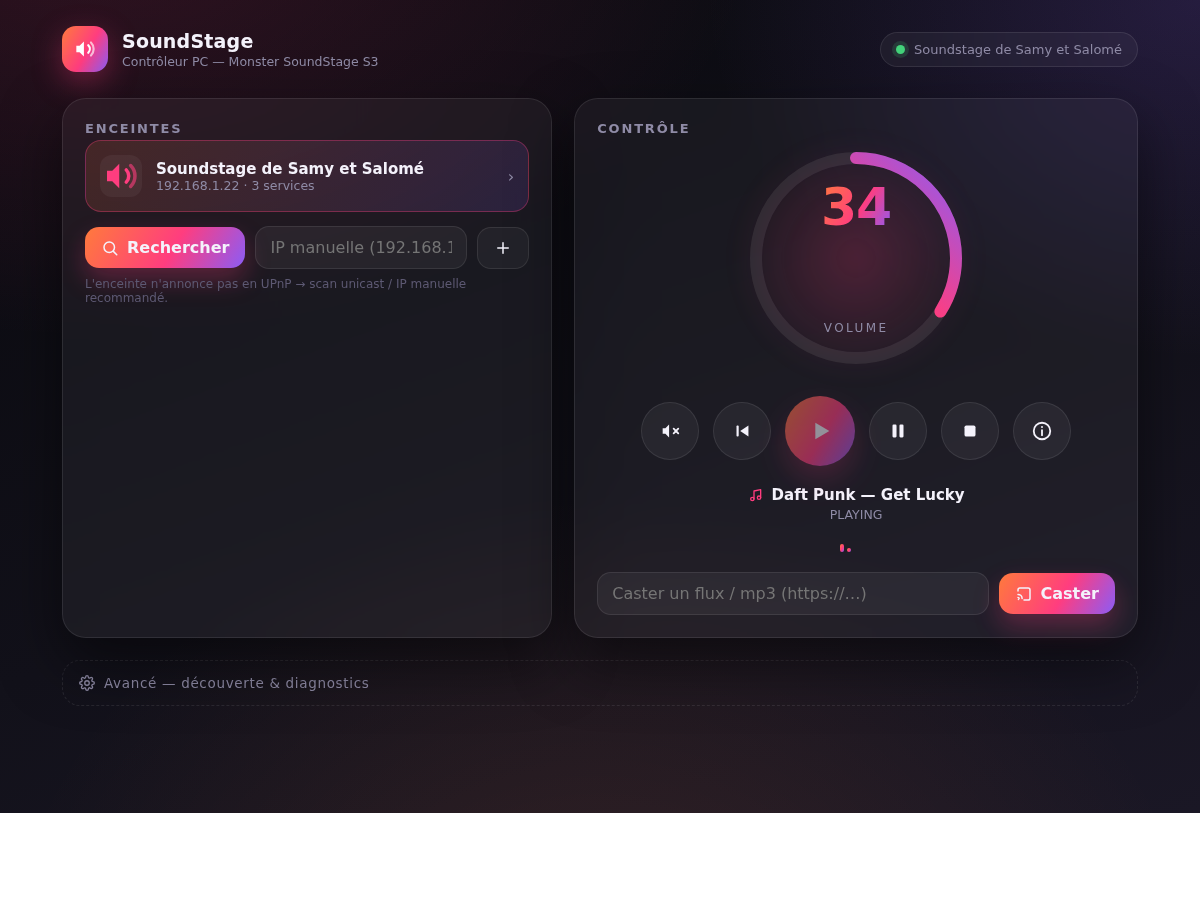
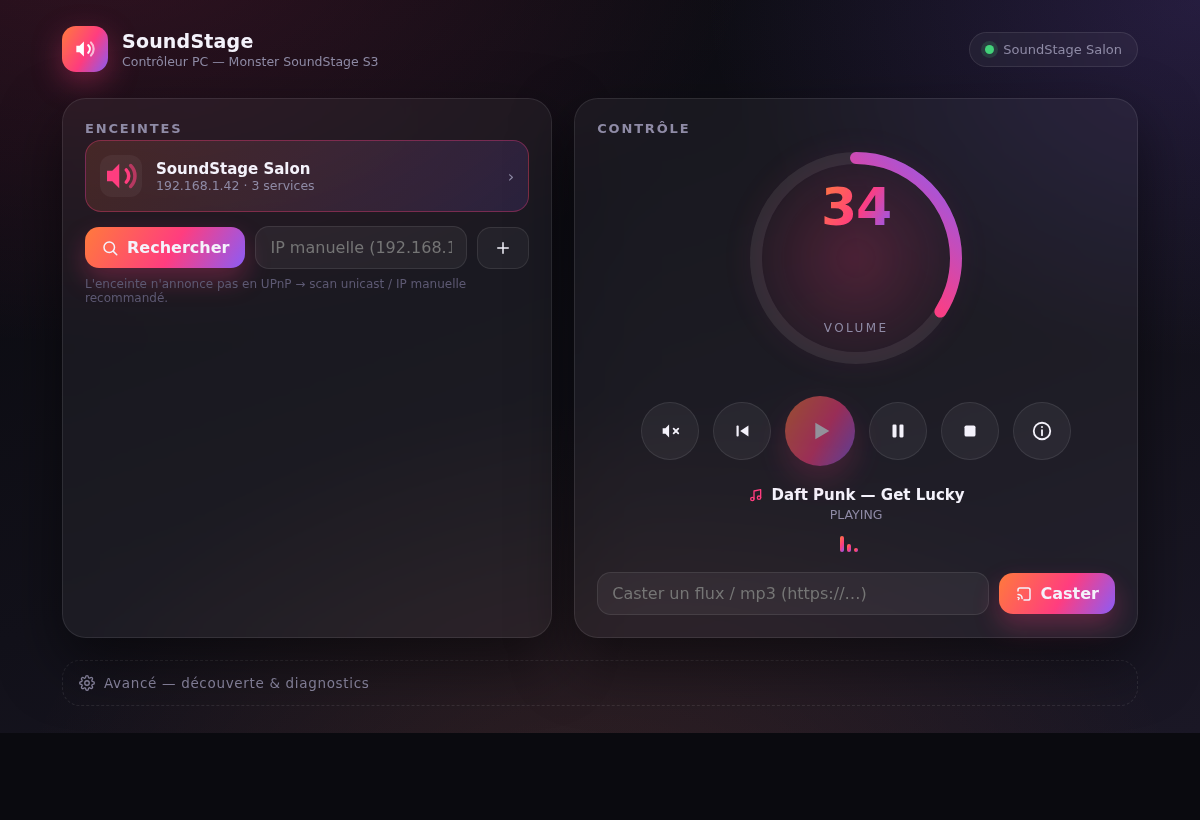
docs: replace screenshot with generic demo device (no personal name) + dark background fix

diff --git a/public/index.html b/public/index.html
@@ -14,8 +14,8 @@
     --ok:#43d17a; --sh:0 24px 60px rgba(0,0,0,.5);
   }
   *{box-sizing:border-box}
-  html,body{height:100%}
-  body{margin:0;color:var(--txt);font-family:ui-sans-serif,system-ui,"Segoe UI",Roboto,Inter,sans-serif;
+  html,body{height:100%;background:#0a0a0f}
+  body{margin:0;color:var(--txt);font-family:ui-sans-serif,system-ui,"Segoe UI",Roboto,Inter,sans-serif;background-color:#0a0a0f;
     background:
       radial-gradient(1100px 700px at 8% -10%, rgba(255,61,127,.16), transparent 60%),
       radial-gradient(900px 650px at 100% 0%, rgba(139,92,246,.18), transparent 55%),
@@ -109,7 +109,7 @@
       <div id="list"><div class="empty">Aucune enceinte. Lance une recherche ci-dessous.</div></div>
       <div class="row" style="margin-top:14px">
         <button class="btn primary" id="btnScan" data-i="search">Rechercher</button>
-        <input id="manualIp" placeholder="IP manuelle (192.168.1.22)" style="flex:1;min-width:150px" />
+        <input id="manualIp" placeholder="IP manuelle (192.168.1.42)" style="flex:1;min-width:150px" />
         <button class="btn" id="btnAdd" data-i="plus" title="Ajouter"></button>
       </div>
       <div class="hint">L'enceinte n'annonce pas en UPnP → scan unicast / IP manuelle recommandé.</div>
@@ -323,7 +323,7 @@ $('#bAllplay').onclick=()=>{const ip=ipOrToast();if(ip)run('/api/allplay?ip='+en
 (function boot(){
   setRing(0); paintPlay();
   if(location.hash.includes('demo')){
-    state.devices=[{ip:'192.168.1.22',name:'Soundstage de Samy et Salomé',services:[1,2,3]}];
+    state.devices=[{ip:'192.168.1.42',name:'SoundStage Salon',services:[1,2,3]}];
     state.sel=state.devices[0]; render(); connected(true); setStatus(state.sel.name);
     state.vol=34; setRing(34); state.playing=true; paintPlay(); paintNP('Daft Punk — Get Lucky','PLAYING');
     return;
